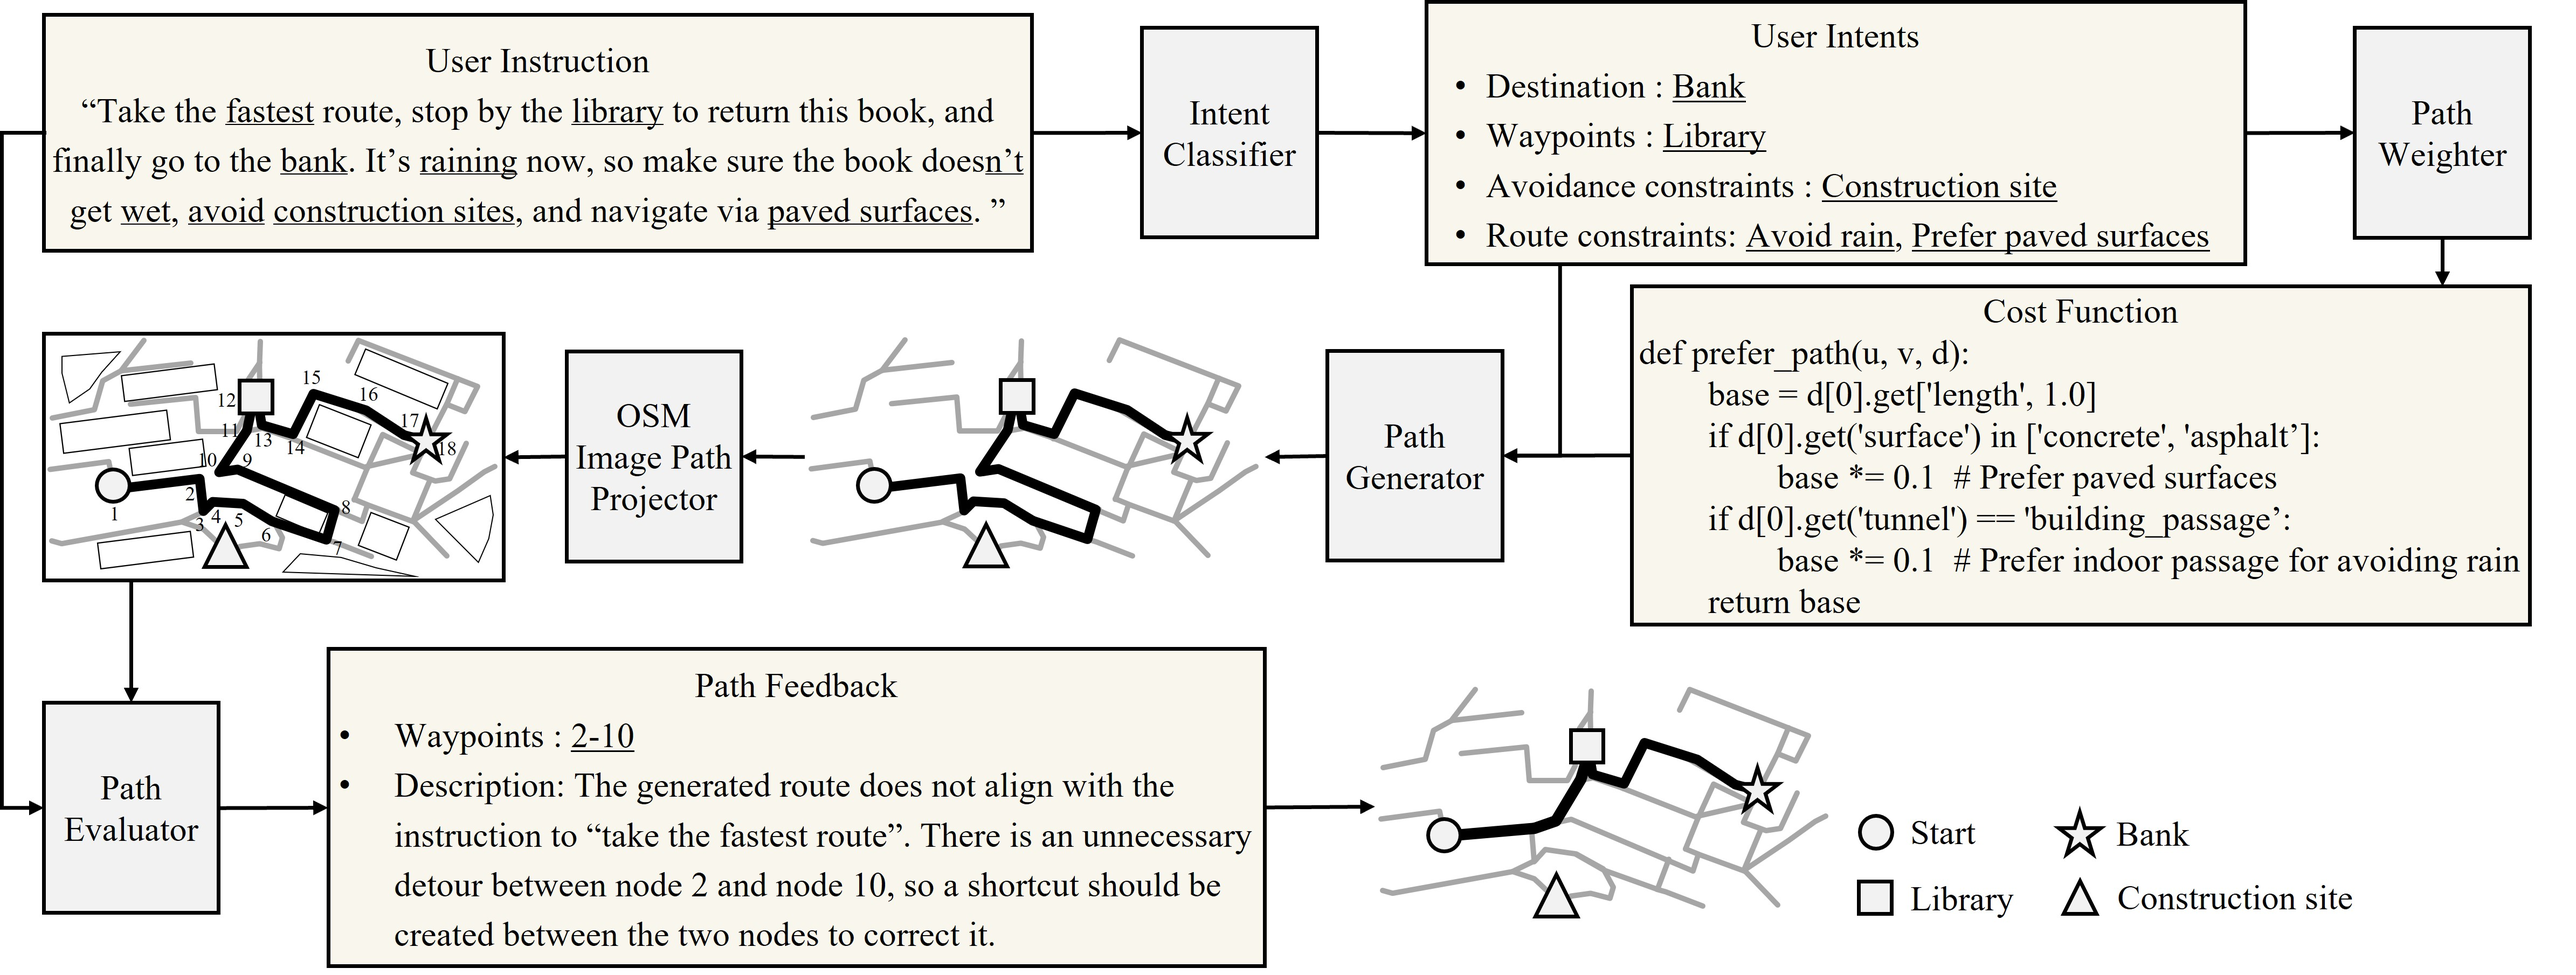
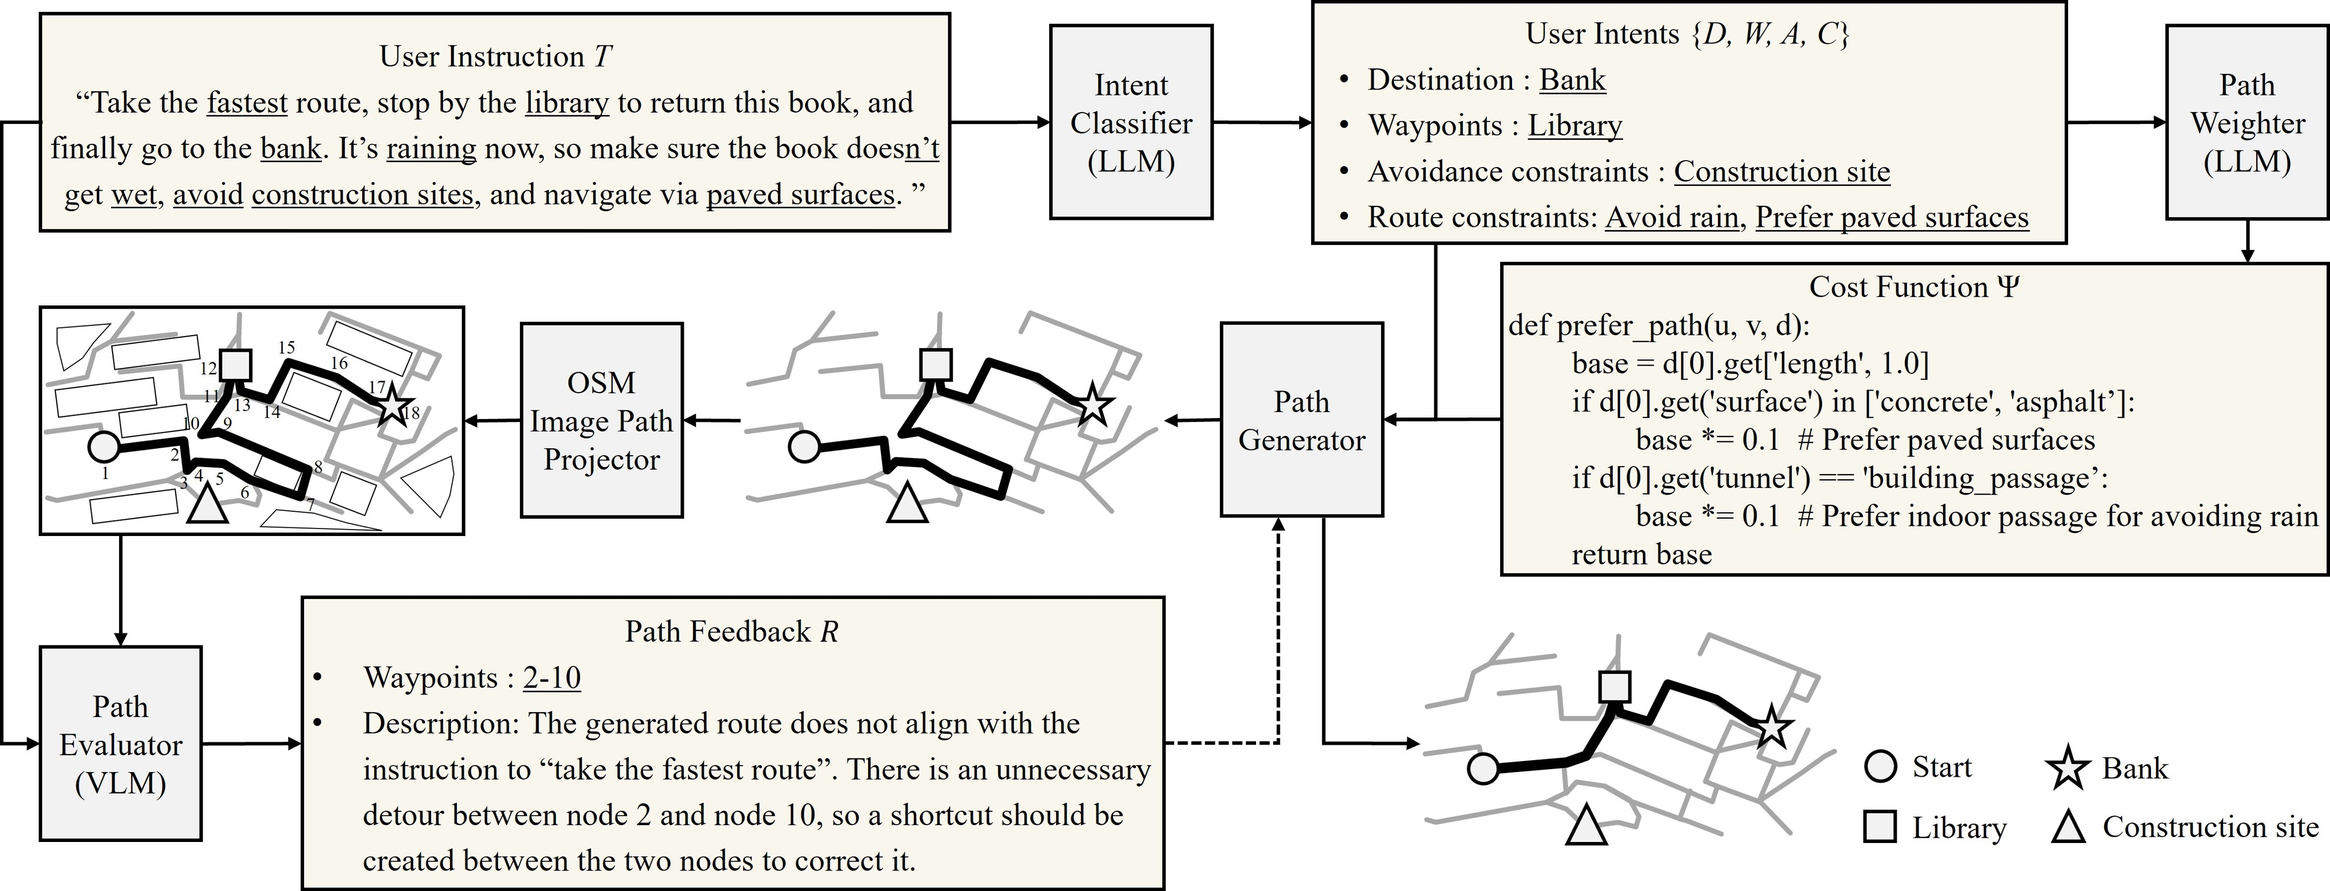
Update path planning figure and abstract

diff --git a/index.html b/index.html
@@ -74,7 +74,7 @@
         <h2 class="title is-3">Abstract</h2>
         <div class="content has-text-justified">
           <p>
-            We present BD-Nav, a language-conditioned graph planning and navigation framework that integrates large language models with OpenStreetMap to generate routes aligned with user intent. Unlike prior approaches that treat language primarily as goal specification, BD-Nav interprets free-form instructions to modify both graph feasibility and traversal cost, enabling route-level constraints such as safety preferences, environmental conditions, avoidance rules, and ordered waypoints. The framework combines intent grounding, instruction-aware edge weighting, and semantic path verification within a unified planning pipeline. The resulting instruction-conditioned path is executed on a quadruped robot using SLAM-based localization and control. Extensive experiments across diverse OSM scenarios and real-world outdoor navigation demonstrate improved instruction alignment, robustness to incomplete map data, and reliable execution.
+            We present BD-Nav, a language-conditioned graph planning and navigation framework that integrates large language models with OpenStreetMap to generate routes aligned with user intent. Unlike prior approaches that treat language primarily as goal specification, BD-Nav interprets free-form instructions to modify both graph feasibility and traversal cost, enabling route-level constraints such as safety preferences, environmental conditions, avoidance rules, and ordered waypoints. The framework combines intent grounding, instruction-aware edge cost modeling, and semantic path verification within a unified planning pipeline. The resulting instruction-conditioned path is executed on a quadruped robot using SLAM-based localization and control. Extensive experiments across diverse map-based scenarios and real-world outdoor navigation demonstrate improved instruction alignment, practical handling of incomplete map connectivity, and reliable execution.
           </p>
         </div>
       </div>
@@ -132,7 +132,7 @@
         <div class="content">
           <h2 class="title is-3">Graph Loader and Feature Extractor Process</h2>
           <center>
-            <img src="static/images/fig3.jpg" class="center-image blend-img-background" style="width:70%;"/>
+            <img src="static/images/fig3.jpg" class="center-image blend-img-background" style="width:60%;"/>
           </center>
         </div>
       </div>
